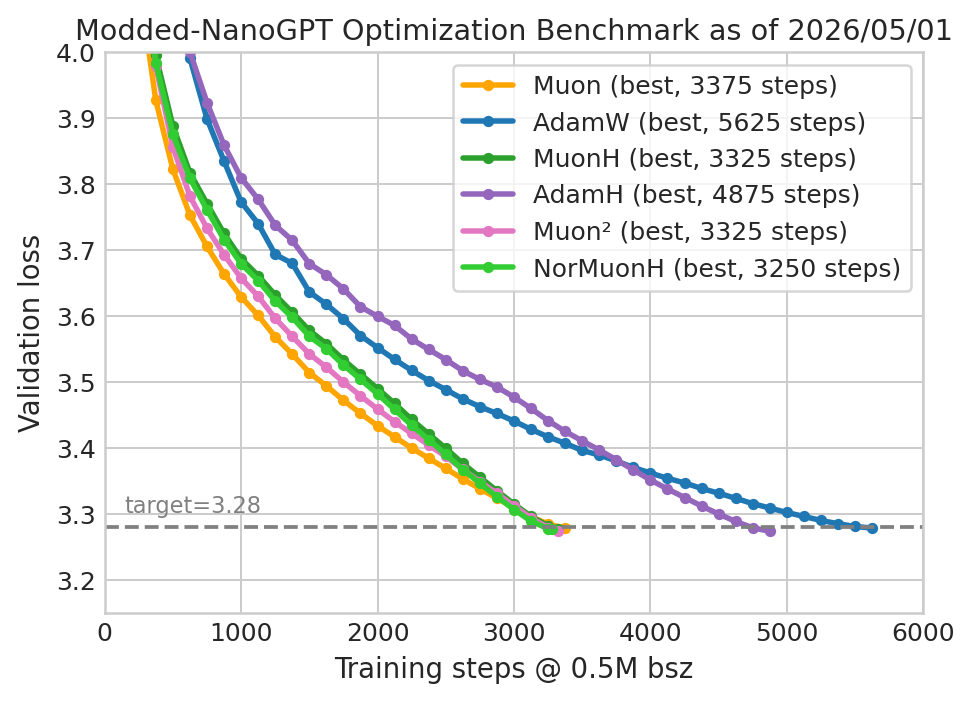
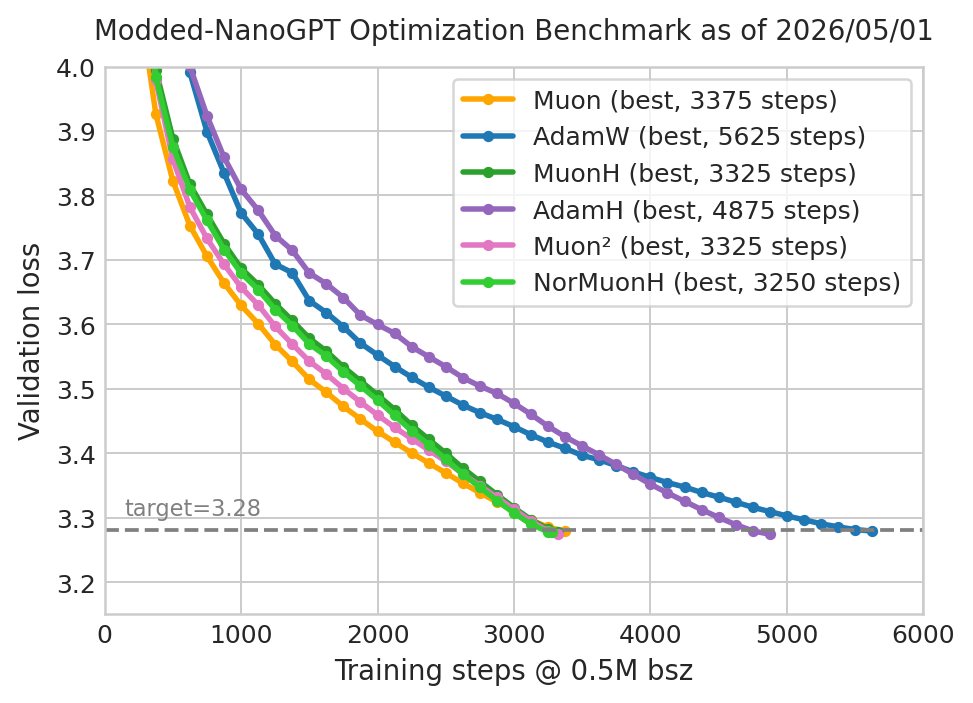
.

diff --git a/records/track_3_optimization/make_figures.py b/records/track_3_optimization/make_figures.py
@@ -111,7 +111,7 @@ ax.annotate(
     color='gray',
     fontsize=9,
 )
-ax.set_title('Modded-NanoGPT Optimization Benchmark as of 2026/05/01', pad=5, fontsize=11.5)
+ax.set_title('Modded-NanoGPT Optimization Benchmark as of 2026/05/01', pad=11, fontsize=11)
 ax.set_xlabel('Training steps @ 0.5M bsz', fontsize=11)
 ax.set_ylabel('Validation loss', fontsize=11)
 ax.legend(frameon=True)
@@ -157,7 +157,7 @@ ax.annotate(
     color='gray',
     fontsize=9,
 )
-ax.set_title('Modded-NanoGPT Optimization Benchmark as of 2026/05/01', pad=5, fontsize=11.5)
+ax.set_title('Modded-NanoGPT Optimization Benchmark as of 2026/05/01', pad=11, fontsize=11)
 ax.set_xlabel('Training steps @ 0.5M bsz', fontsize=11)
 ax.set_ylabel('Validation loss', fontsize=11)
 ax.legend(frameon=True)
